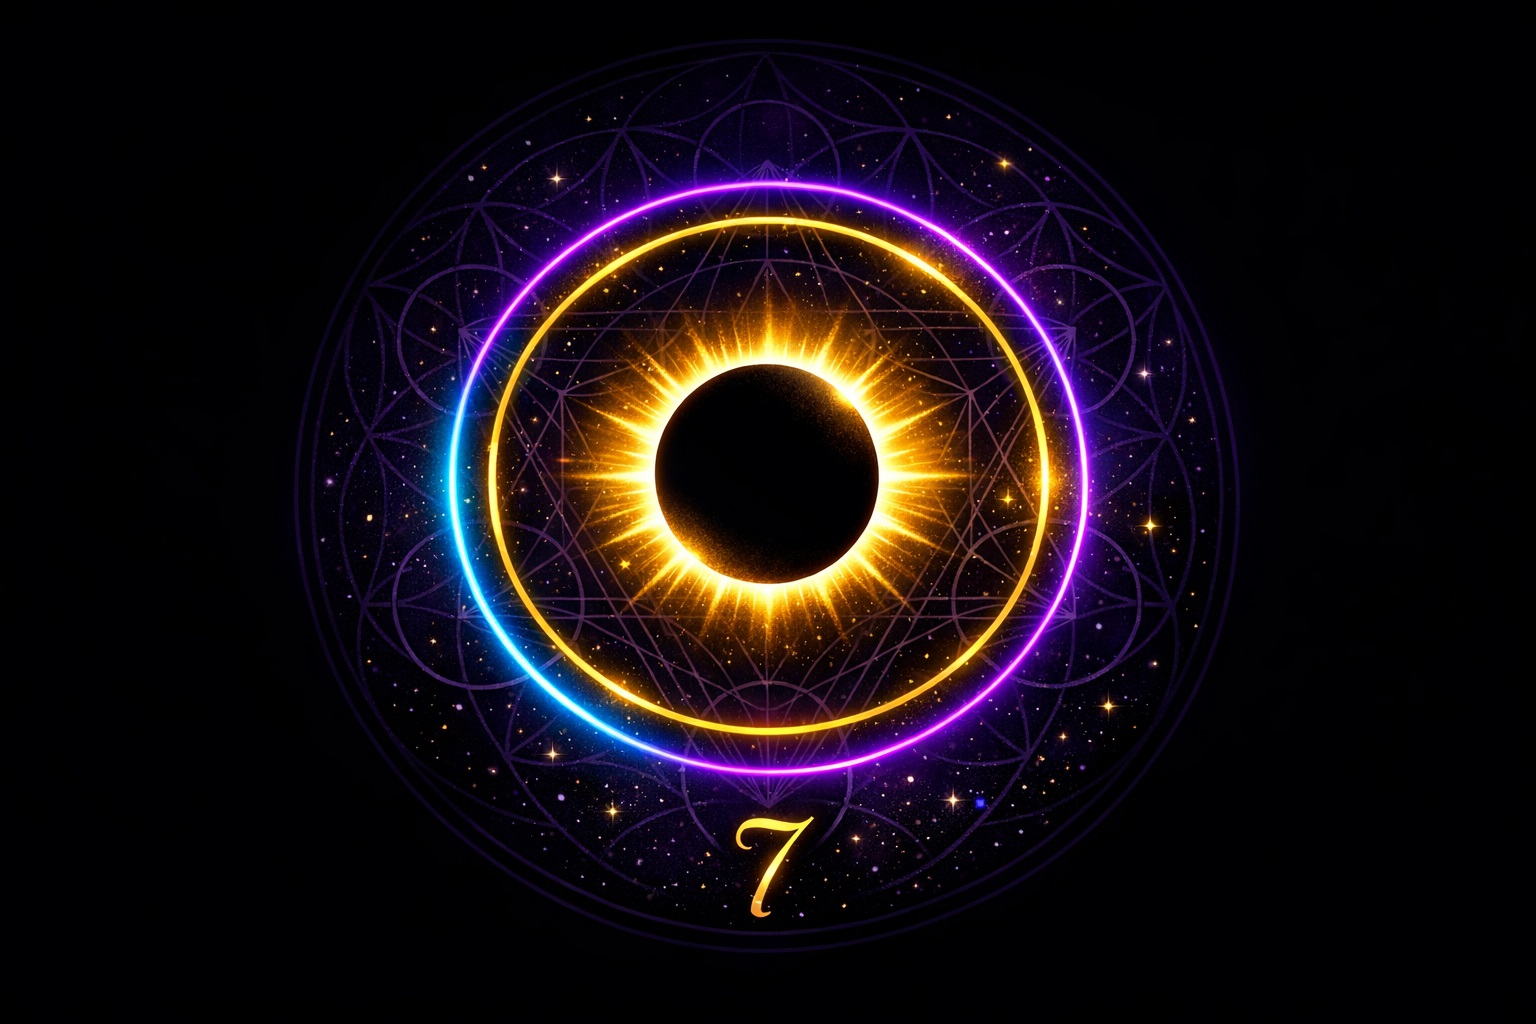
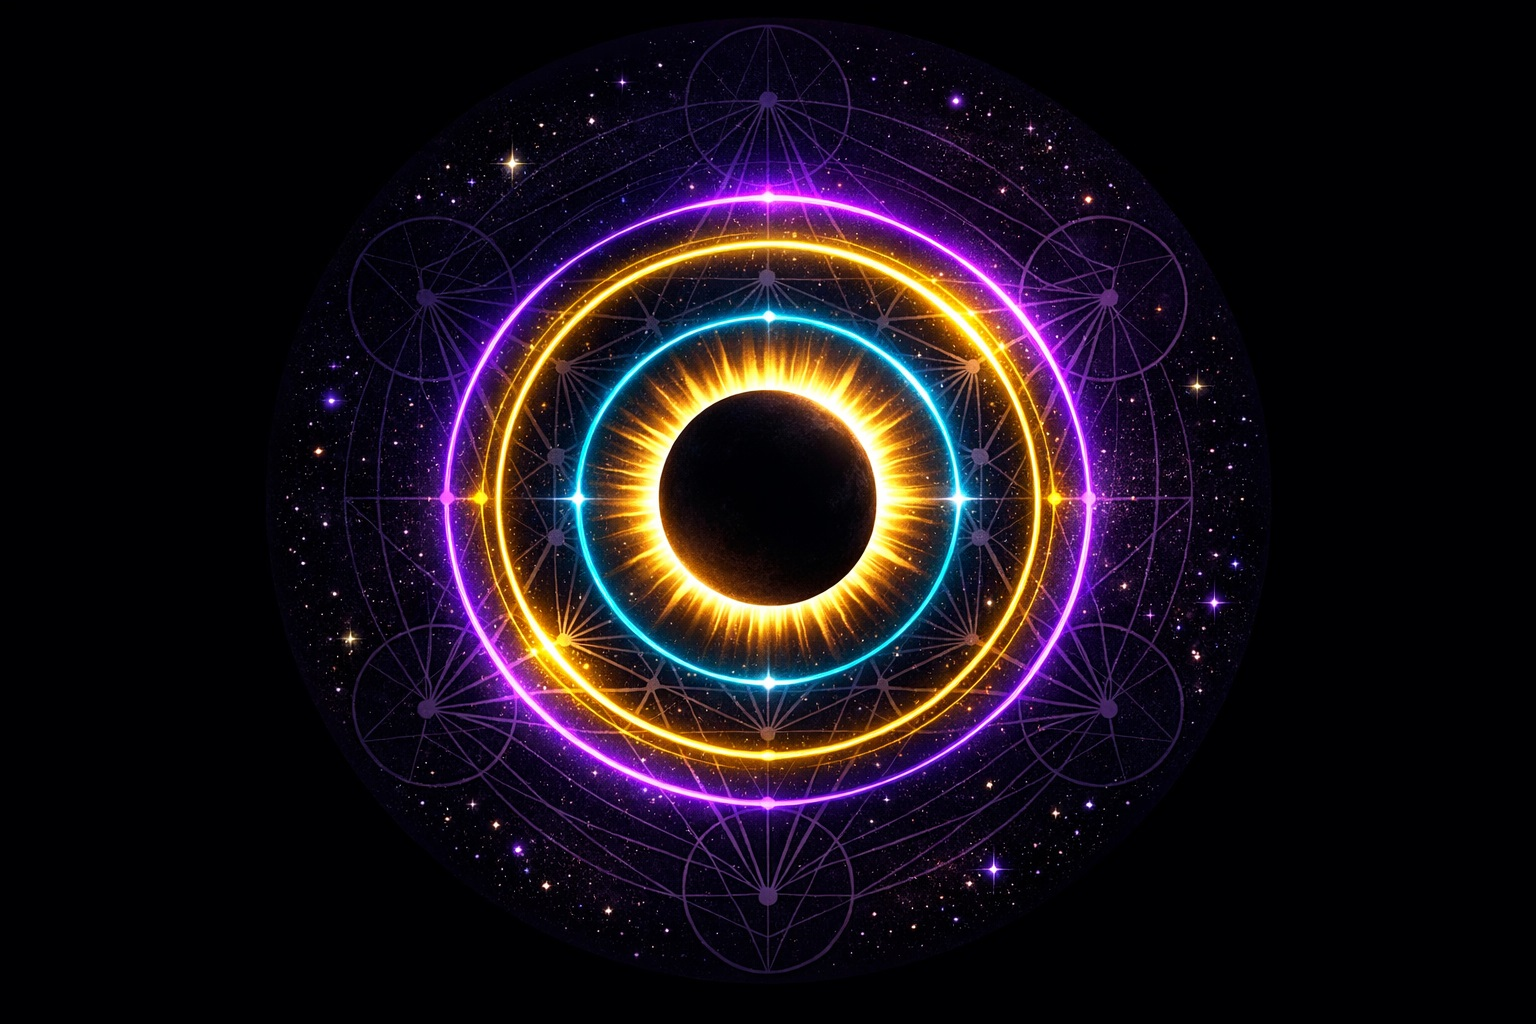
Refocus gravity page on celestial alignments: Lion's Gate, Leo Stellium, add AdSense-friendly disclaimers

Changed region(s): [[0.1875, 0.0312, 0.8125, 0.9688]]

diff --git a/gravity/index.html b/gravity/index.html
@@ -1447,12 +1447,6 @@
     <!-- Mystery Intro -->
     <section class="mystery-intro">
       <div class="brand">Quantum Merlin</div>
-      
-      <!-- Sacred Sigil -->
-      <div class="sacred-sigil" style="opacity: 0; animation: fadeIn 1.5s ease 0.5s forwards;">
-        <img src="gravity.jpg" alt="The Sacred Sigil - Triple Convergence" />
-      </div>
-      
       <p class="mystery-line">The cosmos whispers of a moment foretold...</p>
       <p class="mystery-question">When the heavens hold their breath, will you be ready?</p>
       <h1 class="mystery-answer"><span class="accent">7</span> Sacred Seconds</h1>
@@ -1535,13 +1529,17 @@
         </div>
         
         <div style="background: linear-gradient(135deg, rgba(255, 215, 0, 0.15), rgba(178, 75, 243, 0.1)); border: 1px solid rgba(255, 215, 0, 0.3); border-radius: 16px; padding: 24px; margin: 24px 0;">
-          <p style="font-size: 1.2em; color: var(--ancient-gold); margin-bottom: 16px;">⚖ <strong>THE SACRED PAUSE</strong></p>
-          <p style="margin: 0; opacity: 0.9;">For seven symbolic seconds, the Earth herself takes a breath. A moment of perfect stillness as all three forces converge into one singular point of transformation.</p>
+          <p style="font-size: 1.2em; color: var(--ancient-gold); margin-bottom: 16px;">🦁 <strong>LEO STELLIUM + LION'S GATE</strong></p>
+          <p style="margin: 0; opacity: 0.9;">Four celestial bodies — Sun, Moon, Mercury, and Jupiter — converge in Leo, the House of the Lion. This occurs just <strong>4 days after the Lion's Gate Portal (8/8)</strong>, when Sirius aligns with Orion's Belt and the Pyramids of Giza. The Lion's energy reaches its absolute peak.</p>
         </div>
         
         <p style="margin-top: 32px; font-size: 1.15em; text-align: center; padding: 20px; background: rgba(255, 255, 255, 0.03); border-radius: 12px;">
-          <strong style="color: var(--ancient-gold);">Together, these forces create a vibrational reset unlike any in living memory.</strong><br><br>
-          <span style="opacity: 0.85;">The New Moon clears. The Eclipse transforms. The Pause integrates.</span>
+          <strong style="color: var(--ancient-gold);">This is not fiction. These astronomical events are real and verified.</strong><br><br>
+          <span style="opacity: 0.85;">The New Moon clears. The Eclipse transforms. The Stellium amplifies.</span>
+        </p>
+        
+        <p style="margin-top: 16px; font-size: 0.9em; text-align: center; opacity: 0.6; font-style: italic;">
+          The "7-second pause" is a symbolic/mythological concept shared online — but the celestial alignments are astronomically accurate.
         </p>
       </div>
     </section>
@@ -1552,9 +1550,10 @@
       <div class="section-content">
         <p style="margin-top: 16px;">
           ✩ <strong>Four celestial bodies converge in Leo</strong> — the Sun, Moon, Mercury, and mighty Jupiter gather in the House of the Lion<br><br>
+          ✩ <strong>Just 4 days after the Lion's Gate Portal</strong> (August 8th) — the annual alignment of Sirius, Orion's Belt, and Earth that ancient Egyptians celebrated as a time of heightened spiritual energy<br><br>
           ✩ It is the <strong>224th day</strong> of the solar year — a number revered by mystics across millennia<br><br>
           ✩ In the Hebrew calendar: the <strong>final day before Elul</strong>, the sacred month of return and spiritual awakening</p>
-        <p style="margin-top: 24px; font-size: 1.1em;">What began as whispered prophecy across the digital realm has unveiled something far more profound. <strong style="color: var(--ancient-gold);">This day is cosmically ordained.</strong></p>
+        <p style="margin-top: 24px; font-size: 1.1em;">Whether you follow astrology or simply appreciate the wonder of celestial mechanics — <strong style="color: var(--ancient-gold);">August 12, 2026 is extraordinary by any measure.</strong></p>
       </div>
     </section>
 
@@ -1584,7 +1583,8 @@
           ✱ Heightened <strong>intuition and creative fire</strong> — visions that have long slumbered shall awaken, demanding manifestation<br><br>
           ✱ A profound sense of <strong>sacred transition</strong> — the old self dissolving as a new being emerges from the chrysalis<br><br>
           ✱ <strong>Divine restlessness</strong> giving way to crystalline clarity, as though fog parts to reveal a hidden path</p>
-        <p style="margin-top: 24px;">Since time immemorial, cultures across the globe have honored eclipses as <strong>portals of transformation</strong>. The seven seconds are symbolic — but the <em style="color: var(--celestial-rose);">invitation to transcendence is eternally real.</em></p>
+        <p style="margin-top: 24px;">Since time immemorial, cultures across the globe have honored eclipses as <strong>portals of transformation</strong>. The "seven seconds" concept is a modern internet legend — but the <em style="color: var(--celestial-rose);">celestial alignments are astronomically real, and their symbolic meaning has inspired humanity for millennia.</em></p>
+        <p style="margin-top: 16px; font-size: 0.85em; opacity: 0.5; text-align: center;">This page is offered as spiritual entertainment and astrological exploration. The physical laws of gravity remain constant.</p>
       </div>
     </section>
 
